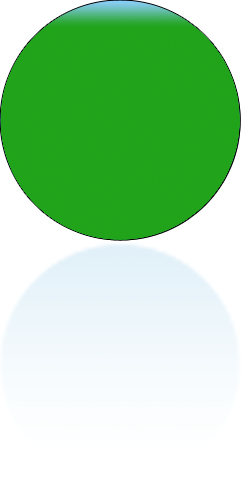
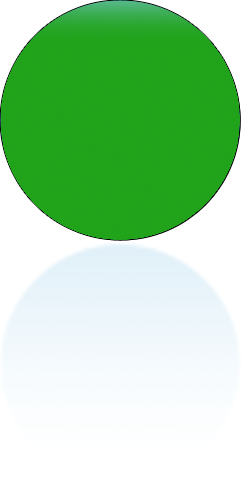
changed green bubble. set to production to prepare for release

Changed region(s): [[0.2614, 0.0, 0.7552, 0.0622], [0.9876, 0.249, 1.0, 0.2801]]

diff --git a/ExtraTypes.h b/ExtraTypes.h
@@ -16,7 +16,7 @@ typedef void(^FailureBlock)(NSError*);
 typedef NSString* (^Formatter)(double val);
 
 #define ADMIN_VER false
-#define DEBUGVER
+//#define DEBUGVER
 #define APIVER @"v2"
 #ifdef DEBUGVER
 //#define TARGET_SERVER @"192.168.1.117:3000"
